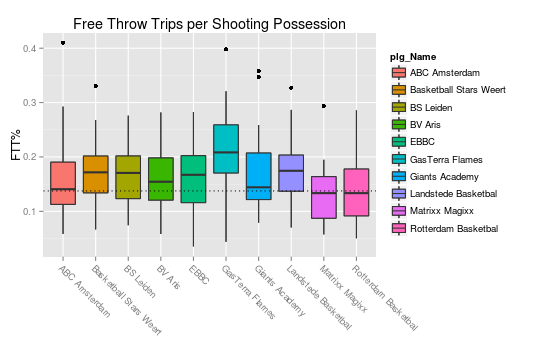
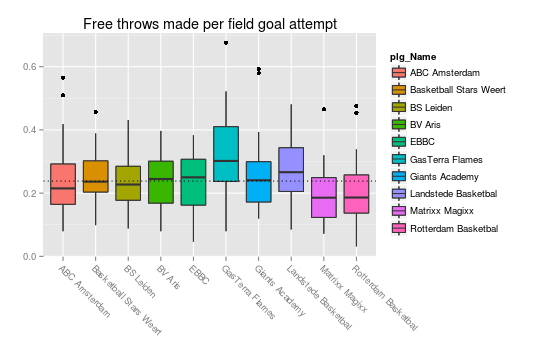
Updated report files

diff --git a/site/pages/reports/2010-2011/teamindicators_regular_season.rst b/site/pages/reports/2010-2011/teamindicators_regular_season.rst
@@ -103,12 +103,12 @@ The correlation matrix for the four factors and the net rating is displayed belo
 
 ::
 
-    ##            Nrtg   EFGpct   ORpct    TOpct   FTTpct
-    ## Nrtg    1.00000  0.58063 0.39175 -0.24349 -0.01473
-    ## EFGpct  0.58063  1.00000 0.04961 -0.06826 -0.03637
-    ## ORpct   0.39175  0.04961 1.00000  0.08502  0.05895
-    ## TOpct  -0.24349 -0.06826 0.08502  1.00000  0.03402
-    ## FTTpct -0.01473 -0.03637 0.05895  0.03402  1.00000
+    ##            Nrtg    EFGpct    ORpct    TOpct      FT4f
+    ## Nrtg    1.00000  0.580632 0.391750 -0.24349  0.036587
+    ## EFGpct  0.58063  1.000000 0.049605 -0.06826 -0.004145
+    ## ORpct   0.39175  0.049605 1.000000  0.08502  0.003564
+    ## TOpct  -0.24349 -0.068262 0.085016  1.00000  0.003400
+    ## FT4f    0.03659 -0.004145 0.003564  0.00340  1.000000
 
 
 
